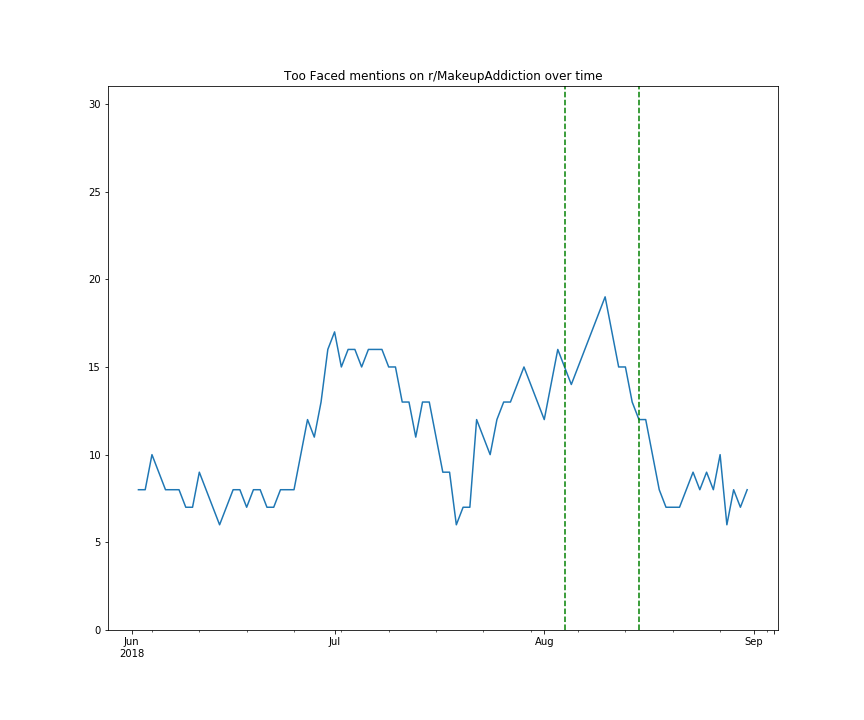
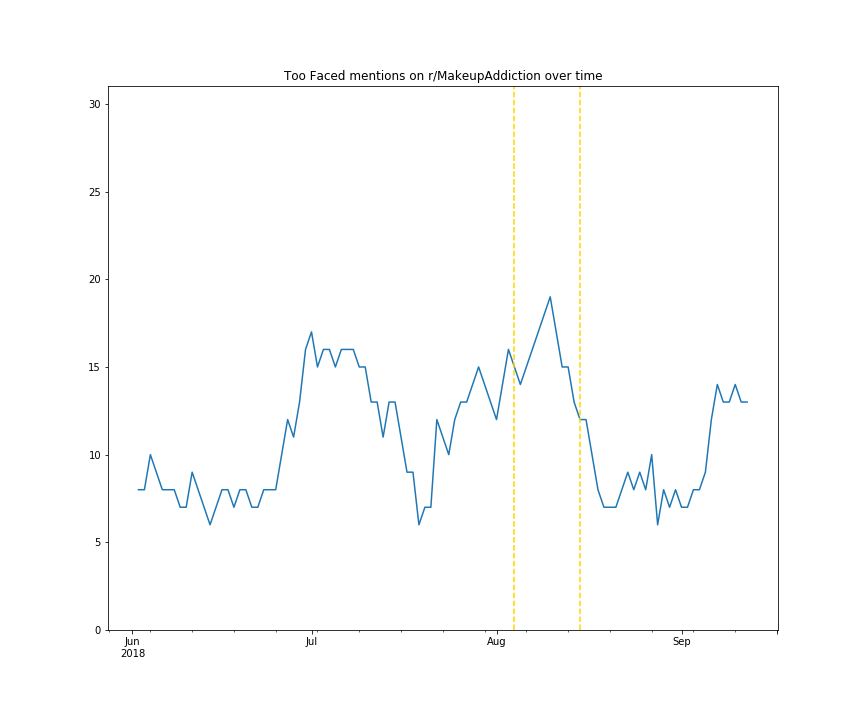
makeup tracking

diff --git a/_sass/_layout.scss b/_sass/_layout.scss
@@ -125,3 +125,10 @@ footer {
 	margin: 10px auto;
     max-width: 90%;
 }
+.cropped-image{
+	// object-fit: cover;
+	max-width: 60%;
+	height: 500px;
+	display: block;
+	margin: 10px auto;
+}

diff --git a/_posts/2018-09-3-makeup-visualization.md b/_posts/2018-09-3-makeup-visualization.md
@@ -1,15 +1,17 @@
 ---
 layout: post
 title:  Tracking Conversations about Makeup on Reddit
-date:   2018-09-3 1:04:00 -0600
+date:   2018-09-12 1:04:00 -0600
 categories: dataviz makeup nltk
 ---
 
+This is the first part of an analysis on discussion of makeup brands on Reddit. Here is a preliminary analysis of my findings. Later, I hope to apply some sentiment analysis to the collected scrapings.
+
 I am a bit of a makeup junkie. Well, I've never mainlined mascara, so maybe more of a makeup addict. Sort of like the folks you will find at [r/MakeupAddiction][rMakeupAddiction], a subreddit for people interested in cosmetics, their application, improving makeup skills, and, occasionally, a bit of beauty industry drama (though most of that is relegated to [r/MUAConspiracy][rMUAConspiracy] and [r/BeautyGuruDiscussion][rBeautyGuruDiscussion]).
 
-![Some YSL for good taste]({{ site.url }}/assets/ysl-lipsticks.jpeg "Some YSL for good taste"){: .center-image }
+![Some YSL for good taste]({{ site.url }}/assets/ysl-lipsticks.jpeg "Some YSL for good taste"){: .cropped-image }
 
-Since February 2018, I've been scraping r/MakeupAddiction every night to collect thread and comment data. My tentative goals were to see which brands were frequently talked about, both relative to one another and over a period of time. My stretch goal was to eventually try my hand at some sentiment analysis and see if redditor sentiments aligned with events that seemed to resonate throughout the beauty community, e.g., Rihannah's fantastically inclusive foundation selection (yay) or Tarte's rather pale release of Shape Tape Foundation (nay). While I have been scraping data since February, I have made several changes to the collected data's format. As a result, I've selected a smaller snapshot of consistently collected data from the beginning of June to the end of August. 
+Since February 2018, I've been scraping r/MakeupAddiction every night to collect thread and comment data. My tentative goals were to see which brands were frequently talked about, both relative to one another and over a period of time. My stretch goal was to eventually try my hand at some sentiment analysis and see if redditor sentiments aligned with events that seemed to resonate throughout the beauty community, e.g., Rihannah's fantastically inclusive foundation selection (yay) or Tarte's rather pale release of Shape Tape Foundation (nay). While I have been scraping data since February, I have made several changes to the collected data's format. As a result, I've selected a smaller snapshot of consistently collected data from the beginning of June to mid-September.
 
 Here's what I've found: 
 
@@ -70,7 +72,7 @@ Nyx doesn't seem to have any major spikes, but is consistently mentioned in the 
 
 
 #### Urban Decay
-- [Born to Run collection][born-to-run] announced June 6, in stores June 24
+- Born to Run collection announced June 6, in stores June 24
 - Announcement of Elements Eyeshadow Palette (to be released 9/10)
 ![Urban Decay mentions]({{ site.url }}/assets/makeup_graphs/urbandecay-mentions-june-august.png "UD mentions"){: .center-image }
 
@@ -89,9 +91,11 @@ Vault Drama: Jaclyn's Morphe collaboration collection was announced June 11. How
 ### Other Notes
 While it appears that spikes in brand discussion often coincide with new launches, this does not seem to be the rule. Conspiciously absent is Pat McGrath who had several releases during this time period. However, McGrath Labs never had more than 7 mentions on a given day. I would hypothesize that the nature of the r/MakeupAddiction has something to do with this. While redditors frequently post their excitement for upcoming or imminent releases, more often content revolves around FOTD (face of the day) and practicing makeup techniques. This means that redditors are more likely to talk about their HG (holy grail) products and those which make up their daily routines. While Pat McGrath's quality is frequently lauded, the luxury price puts it out of range for many consumers. The same logic can be applied to Natasha Denona, which also had a number of eyeshadow palette releases in this time, but very little discussion on this subreddit.
 
+Additionally, we have to recognize the limitations of simply counting words. Is greater frequency a good thing? Or can it allude to an outrageous event that sparks discussion and backlash? This is something I hope to address in future posts, with some work with sentiment analysis and topic modeling.
+
 ### Methodology
 
-I gathered my data with a nightly cron job using the Reddit API. The data was saved to a series of flat files. I used a series of trusty Jupyter notebooks to explore and parse the data, shaping and manipulating it with the usual suspects, Panadas and Numpy. NLTK did the heavy lifting with gram tokenization (read: counting word frequencies). And then I used MatPlotLib for preliminary visualizations and Bokeh for some fancier, interactive ones.
+I gathered my data with a nightly cron job using the Reddit API. The data was saved to a series of flat files. I used a series of trusty Jupyter notebooks to explore and parse the data, shaping and manipulating it with the usual suspects, Pandas and Numpy. NLTK did the heavy lifting with gram tokenization (that is, counting word frequencies). And then I used MatPlotLib for the visualizations. Ideally, I'd like to improve this work by creating interactive visualizations, but that proved a bit out-of-scope for the current time. I hope to use the same data sets to try some sentiment analysis at a later time.
 
 [rMakeupAddiction]:https://www.reddit.com/r_makeupaddiction/
 [rMUAConspiracy]:https://www.reddit.com/r_muaconspiracy/
